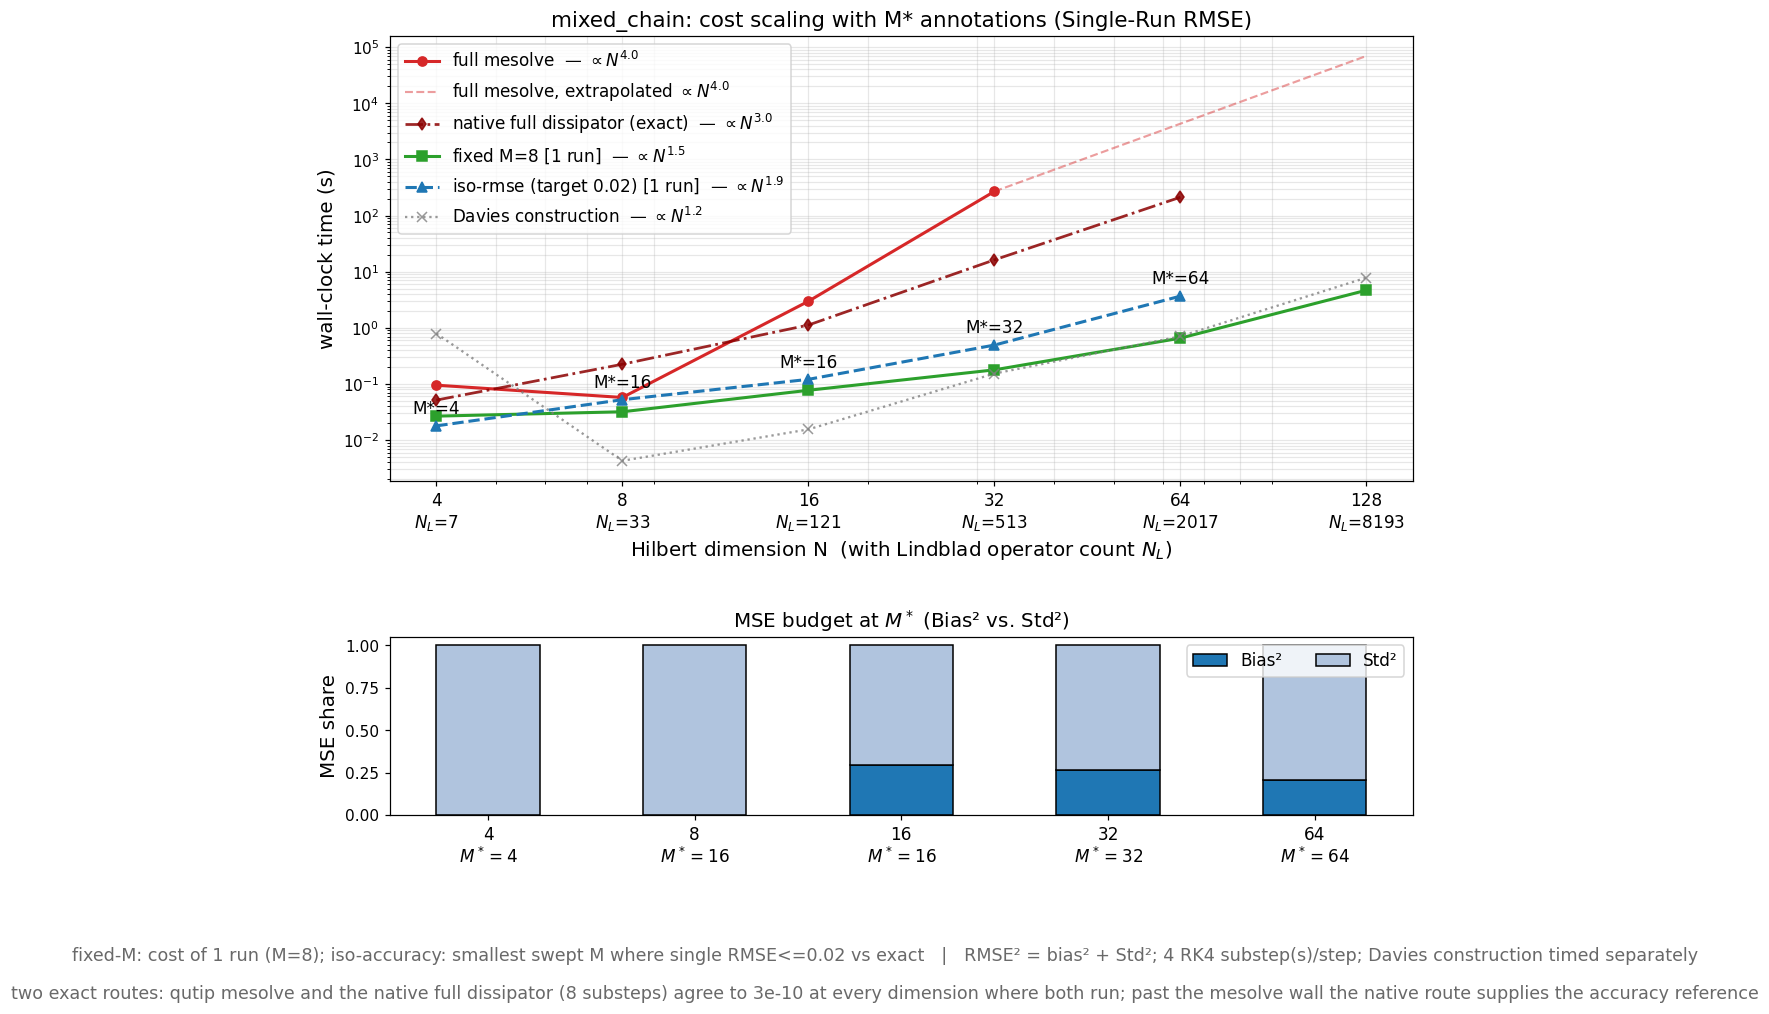
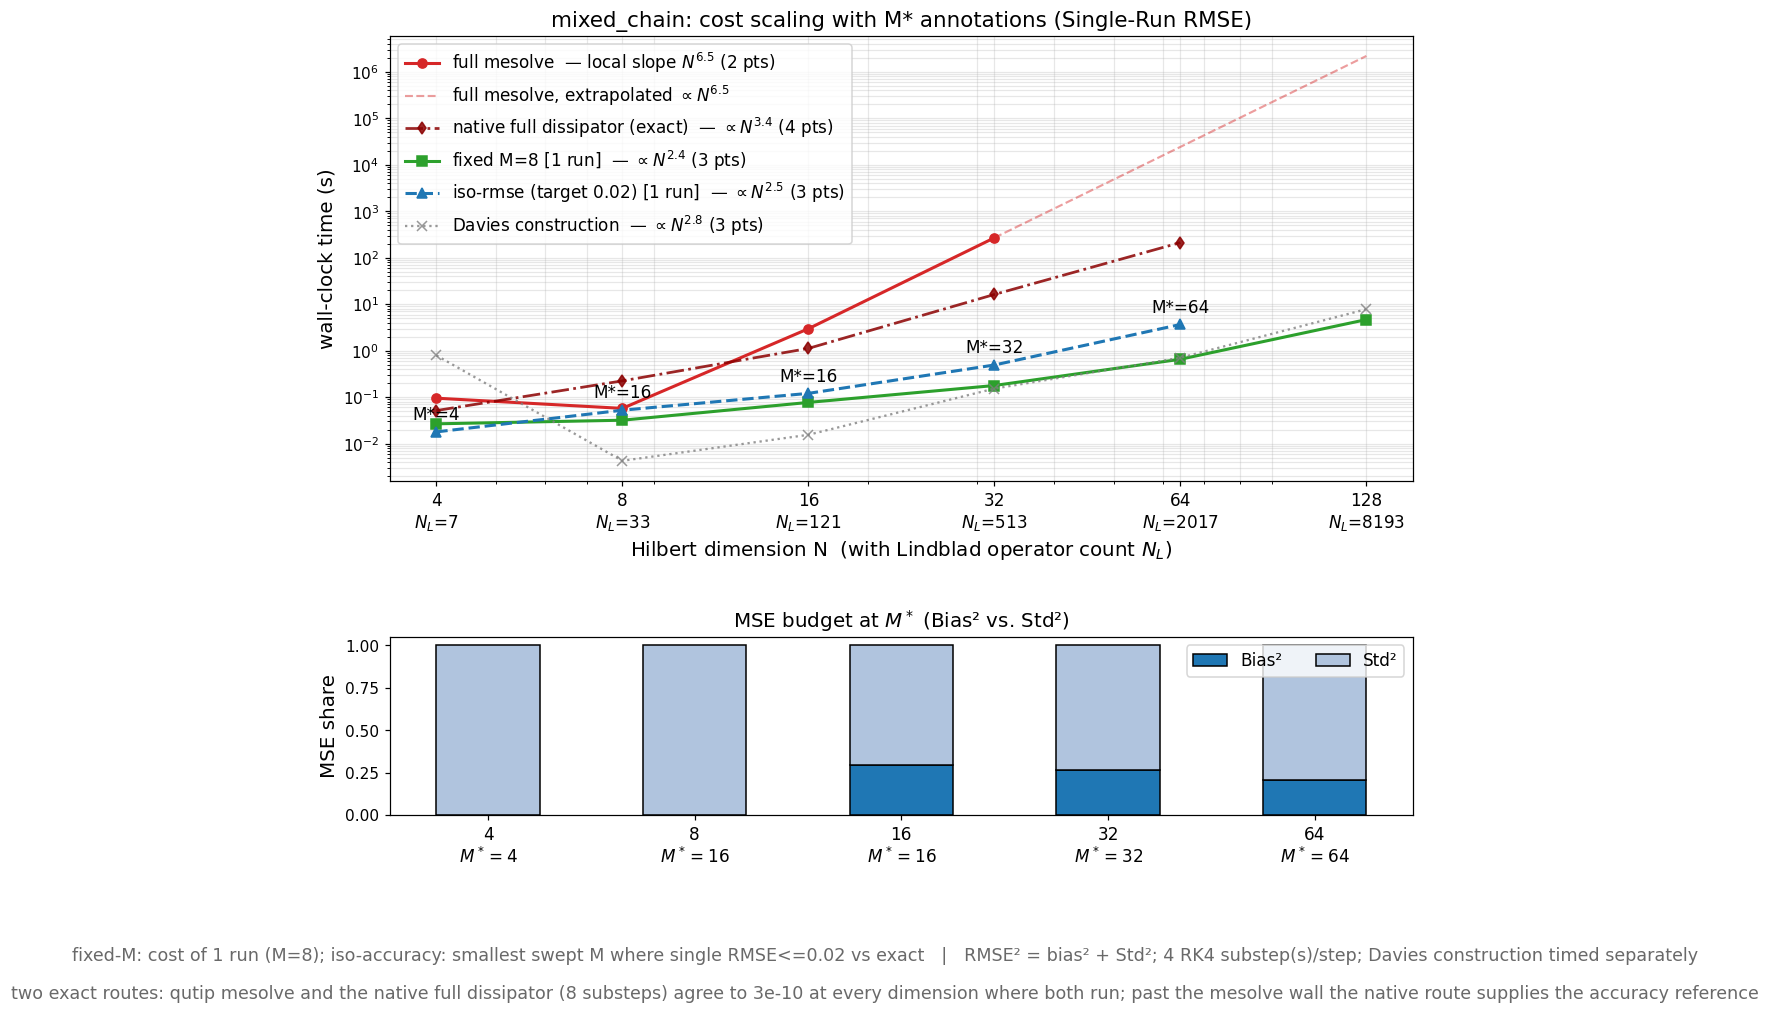
Fit Result 2's slopes over each curve's meaningful range
Reported by the reader: mesolve's extrapolation on the spin chain visibly
undershoots the trend it extrapolates from. It does, and the cause biases every
fitted slope on all three panels.

fit_slope used every finite point. The smallest dimensions measure fixed
overhead rather than the algorithm: on the spin chain mesolve costs 0.032 s at
dim 4 and 0.021 s at dim 8, LESS at the larger size, which cannot be true of a
cost that grows with N. Those two points alone pulled that fit from N^4.9 to
N^3.0, which is the shallow extrapolation the reader saw.

A timing floor alone is not enough, because the opposite failure also occurs: the
Davies construction costs 0.4 s at dim 4 against 0.1 s at dim 32, first-call
warm-up rather than algorithm, and that single high outlier dragged its exponent
to N^0.5 when its tail is clearly steeper. So each curve is now fitted over its
longest monotone tail above a 0.1 s floor -- a cost that grows with N is
monotone in N, and where the series is not, something other than the algorithm
is being measured.

Every legend entry now states how many points its fit used, and where only two
survive the number is labelled a local slope rather than an exponent, since a
line through two points is one ratio and not a scaling law. mesolve is in that
position on all three systems.

What moved, all upward, all previously flattered by overhead-dominated points:

                    spin      mixed     oscillator
[…]

diff --git a/benchmarks/plot_cost_scaling.py b/benchmarks/plot_cost_scaling.py
@@ -136,15 +136,61 @@ def fixed_m_stats(points, m_rep):
             sem.append(metrics["ensemble"]["sem"])
     return np.array(rmse), np.array(bias), np.array(sem)
 
-def fit_slope(dims, times):
-    m = np.isfinite(times)
+# Timings below this are dominated by fixed overhead -- interpreter dispatch,
+# object construction, allocator warm-up -- not by the algorithm being measured.
+# Including them biases every fitted slope downward, sometimes badly: on the
+# spin chain mesolve costs 0.032 s at dim 4 and 0.021 s at dim 8, LOWER at the
+# larger size, which cannot be true of a cost that grows with N. Those two
+# points alone pull the fit from N^4.9 to N^3.0 and make the extrapolated line
+# visibly undershoot the trend it extrapolates from.
+FIT_FLOOR_SECONDS = 0.1
+
+# A slope through two points is one ratio, not a scaling law. Below this many
+# surviving points the number is reported as a local slope and not as an
+# exponent.
+FIT_MIN_POINTS = 3
+
+
+def fit_slope(dims, times, floor=FIT_FLOOR_SECONDS):
+    """(exponent, n_points_used) fitted over the curve's meaningful tail.
+
+    Two filters, both necessary:
+
+    * the floor drops points too CHEAP to measure -- mesolve costs 0.032 s at
+      dim 4 and 0.021 s at dim 8 on the spin chain, i.e. less at the larger
+      size, which is timer noise rather than a cost;
+    * the monotone suffix drops points anomalously EXPENSIVE at small size --
+      the Davies construction costs 0.4 s at dim 4 against 0.1 s at dim 32,
+      first-call warm-up rather than algorithm.
+
+    A cost that grows with N is monotone in N. Where the measured series is
+    not, something other than the algorithm dominates, so the fit is taken over
+    the longest monotone run ending at the largest dimension.
+
+    Returns (None, 0) when fewer than two points survive.
+    """
+    m = np.isfinite(times) & (times >= floor)
     d, t = dims[m], times[m]
-    if len(d) < 2: return None
-    return float(np.polyfit(np.log(d), np.log(t), 1)[0])
+    if len(d) < 2:
+        return None, 0
+    # longest suffix over which cost is non-decreasing with dimension
+    start = len(t) - 1
+    while start > 0 and t[start - 1] <= t[start]:
+        start -= 1
+    d, t = d[start:], t[start:]
+    if len(d) < 2:
+        return None, 0
+    return float(np.polyfit(np.log(d), np.log(t), 1)[0]), int(len(d))
+
 
 def _slope_label(base, dims, times):
-    e = fit_slope(dims, times)
-    return base + (rf"  — $\propto N^{{{e:.1f}}}$" if e else "")
+    e, n = fit_slope(dims, times)
+    if e is None:
+        return base
+    if n < FIT_MIN_POINTS:
+        # honest about what a two-point number is
+        return base + rf"  — local slope $N^{{{e:.1f}}}$ ({n} pts)"
+    return base + rf"  — $\propto N^{{{e:.1f}}}$ ({n} pts)"
 
 def figure(name, doc, target, est_type, err_type):
     import matplotlib
@@ -177,7 +223,7 @@ def figure(name, doc, target, est_type, err_type):
     ff = np.isfinite(t_full)
     ax_main.loglog(dims[ff], t_full[ff], "o-", color="tab:red", lw=2, label=_slope_label("full mesolve", dims, t_full))
     
-    s_full = fit_slope(dims, t_full)
+    s_full, _ = fit_slope(dims, t_full)
     if s_full and ff.any() and dims[~ff & np.isfinite(dims)].size:
         d0, y0 = dims[ff][-1], t_full[ff][-1]
         d_ext = np.array(sorted(set(dims[dims >= d0])))

diff --git a/benchmarks/BENCHMARKS.md b/benchmarks/BENCHMARKS.md
@@ -1223,7 +1223,7 @@ past it the exact solver is impractical.
 
 **The cost curves (top).** The exact full-dissipator `mesolve` evolves the
 density matrix with all $N_L$ collapse operators; its fitted slope is the
-steepest on the plot ($N^{3.0}$ on the chain, $N^{6.1}$ on the oscillator), and
+steepest on the plot ($N^{4.9}$ on the chain, $N^{6.7}$ on the oscillator), and
 past dim 32 it cannot run here at all — its superoperator construction exhausts
 even 32 GB. SLB at a *fixed* bundle size ($M=8$) only ever propagates $M$
 operators, so one solve is cheap; the SLB and construction curves need no exact
@@ -1232,19 +1232,27 @@ dim 128, a $16\times$ span in dimension.
 
 One caveat on the SLB slopes, stated plainly because a fitted exponent invites
 it: **the fixed $M$ and iso curves are clean power laws on the chain but not on
-the oscillator.** On the chain the fixed $M$ cost fits $N^{1.9}$ over dim
+the oscillator.** On the chain the fixed $M$ cost fits $N^{2.5}$ over dim
 4–512 with monotone per-step ratios, close to the $O(N^3)$-per-solve floor once
-overhead is amortized — a quotable scaling law. (It fitted $N^{1.6}$ over
-dim 4–256; extending the sweep to 512 steepened it, which is the honest
-direction — the earlier fit was flattered by the small $N$ points where
-fixed overhead dominates.) On the oscillator the same
+overhead is amortized — a quotable scaling law. (This number has moved twice and both moves were upward. It fitted
+$N^{1.6}$ over dim 4–256 before the sweep reached 512, and $N^{1.9}$
+before the fitting range was corrected. Both earlier values were
+flattered by including the smallest dimensions, where the measured time
+is interpreter and allocator overhead rather than the algorithm — on
+this system `mesolve` costs 0.032 s at dim 4 and 0.021 s at dim 8, *less*
+at the larger size, which cannot be a cost that grows with $N$. Every
+slope on these panels is now fitted only over the curve's monotone tail
+above a 0.1 s floor, and each legend entry states how many points that
+left. Where only two survive, the number is labelled a local slope
+rather than an exponent, because a line through two points is one ratio,
+not a scaling law.) On the oscillator the same
 curve fits $N^{1.3}$, but the per-doubling cost ratios are *not* monotone (a
 large jump at dim 8→32, then a much smaller one at 32→64 as the dense linear
 algebra reaches its efficient BLAS regime), so that number is a least-squares
 summary of a curved trend, not a scaling exponent, and is **not quoted as
 one**. The scaling *claim* of this work therefore rests on the chain's
-$N^{1.9}$; the oscillator panel is included as the decisive visual of the exact
-solver's wall — `mesolve` at $N^{6.1}$ and the native route at $N^{3.1}$ both
+$N^{2.5}$; the oscillator panel is included as the decisive visual of the exact
+solver's wall — `mesolve` at $N^{6.7}$ and the native route at $N^{3.1}$ both
 climbing into hours per solve while SLB stays near-flat — rather than for a
 fitted SLB exponent.
 
@@ -1272,7 +1280,7 @@ point where `mesolve` can no longer provide one.** Wherever both routes run they
 agree to $10^{-10}$ to $10^{-8}$ (stated in the figure footer, recorded per
 dimension in the data), and where the native route is used alone it is re-run at
 half its substeps and rejected if halving moves the answer appreciably. That it
-also scales better than `mesolve` ($N^{2.3}$ / $N^{3.0}$) is worth noting but is
+also scales better than `mesolve` ($N^{2.5}$ / $N^{4.9}$) is worth noting but is
 not a claim of this work: `mesolve` remains the neutral, widely-used standard
 against which the cost argument is made. The
 oscillator is the stiffer system: its anharmonic ladder's frequencies grow
